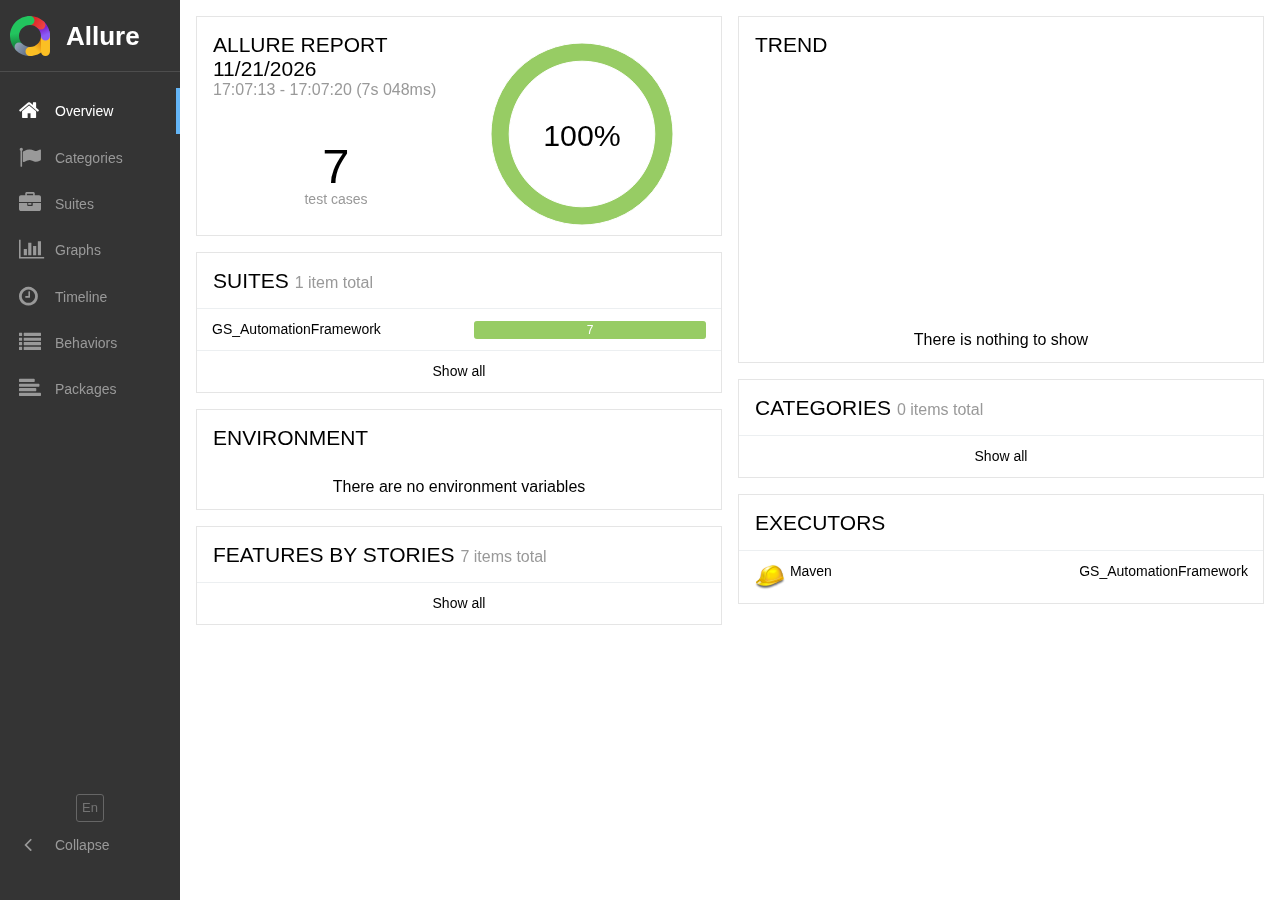
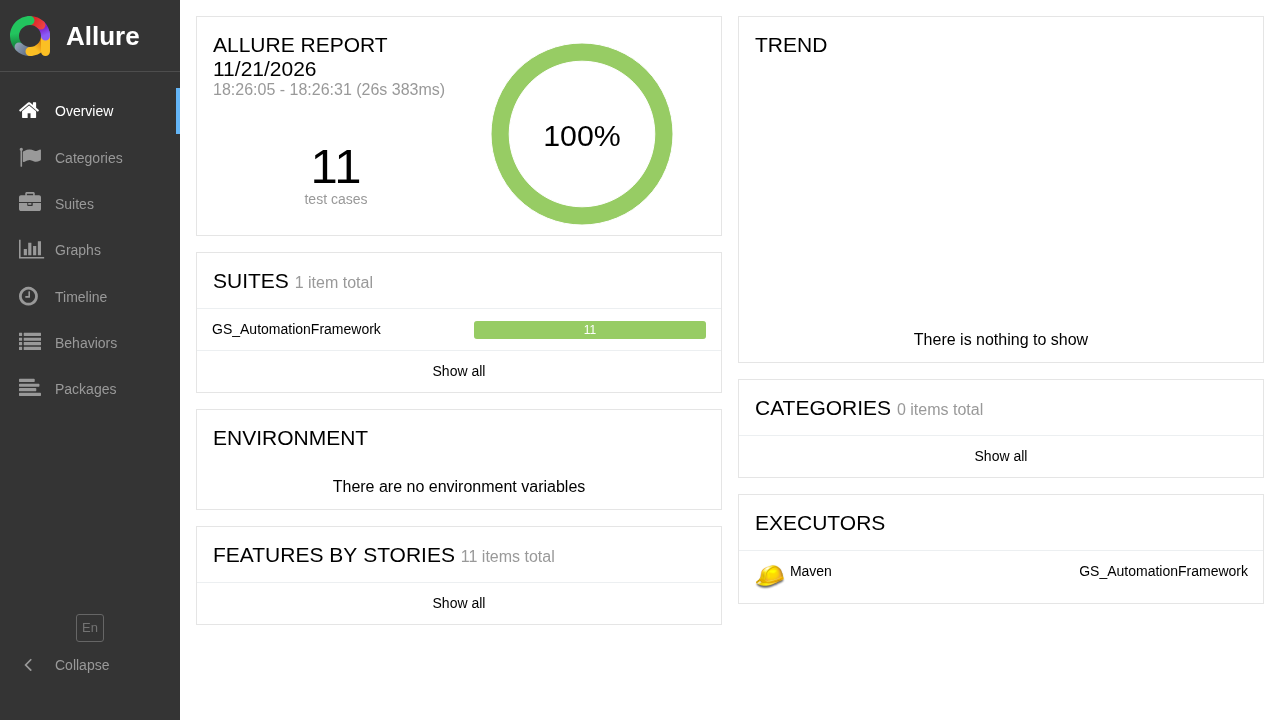
Rebuild the README as a visual showcase of the framework

diff --git a/README.md b/README.md
@@ -6,6 +6,33 @@ Drop in your store's URL, fill the page locators, and the common flows every
 e-commerce site needs are ready to run: login, product search, add to cart,
 cart management and checkout.
 
+[![CI](https://github.com/Omartarek876/EcoQA/actions/workflows/CI.yml/badge.svg)](https://github.com/Omartarek876/EcoQA/actions/workflows/CI.yml)
+[![Allure report](https://img.shields.io/badge/Allure_report-live_on_GitHub_Pages-97ca00)](https://omartarek876.github.io/EcoQA/)
+![Java 21](https://img.shields.io/badge/Java-21-orange)
+![Selenium](https://img.shields.io/badge/Selenium-4.52-43B02A?logo=selenium&logoColor=white)
+![TestNG](https://img.shields.io/badge/TestNG-7.11-FF7300)
+![Maven](https://img.shields.io/badge/Maven-C71A36?logo=apachemaven&logoColor=white)
+
+![Tour of the live Allure report published from the latest CI run](docs/gifs/report-tour.gif)
+
+*Browsing the live report this framework publishes after every CI run:
+overview, suites, a passing test with its Allure steps, graphs and timeline.*
+
+## What happens on every push
+
+![Execution flow: push, CI, TestNG parallel threads with their own browsers, Allure report, live GitHub Pages link](docs/diagrams/execution-flow.svg)
+
+1. A push to `main` (or a pull request) triggers `.github/workflows/CI.yml`.
+2. The workflow sets up Java 21 and runs `mvn clean test`.
+3. TestNG runs the test classes in parallel (see
+   [Parallel execution](#parallel-execution)): every class gets its own thread
+   and its own browser session through the thread-local `DriverFactory`.
+4. The Allure integration records every step, with a screenshot attached when
+   a test fails.
+5. The report is generated as a single HTML file and published to GitHub Pages,
+   so the latest results are always one link away:
+   <https://omartarek876.github.io/EcoQA/>.
+
 ## Tech stack
 
 - Java 21, Maven
@@ -13,6 +40,53 @@ cart management and checkout.
 - TestNG
 - Allure (allure-testng 3.0) for HTML reports
 - GitHub Actions CI
+
+## Framework structure
+
+```
+EcoQA/
+├── .github/workflows/CI.yml    plug-and-play pipeline: test, report, publish
+├── src/main/java/
+│   ├── pages/                  ready e-commerce page flows, locators to fill
+│   └── utils/                  DriverFactory, element actions, waits,
+│                               listeners, retry, Allure helpers
+├── src/main/resources/
+│   ├── environment.properties  baseUrl of the store under test
+│   └── execution.properties    browser, headless, waits, retry attempts
+├── src/test/java/
+│   ├── smoke/                  framework self-tests, run in parallel in CI
+│   └── templates/              copy-ready test class template
+├── src/test/resources/
+│   └── <Page>Page_Data/        messages + EN/AR data files per page
+└── docs/                       screenshots, GIFs and diagrams for this README
+```
+
+How the layers connect:
+
+```mermaid
+flowchart LR
+    subgraph tests["Test layer - src/test"]
+        T["Smoke tests<br/>and your tests"]
+        D["Per-page JSON data<br/>(messages, EN, AR)"]
+    end
+    subgraph framework["Framework layer - src/main"]
+        P["Page flows<br/>pages/"]
+        U["Utilities<br/>utils/"]
+        F["DriverFactory<br/>ThreadLocal WebDriver"]
+    end
+    T --> P
+    T --> D
+    P --> U
+    D --> U
+    U --> F
+    F --> W["Selenium WebDriver<br/>Chrome / Firefox / Edge"]
+    U --> R["Allure report<br/>local + GitHub Pages"]
+```
+
+The tests never touch WebDriver directly: they call the page flows, the page
+flows call the utilities, and the utilities own the driver, the waits, the
+assertions and the reporting. Data lives next to the tests as JSON, never
+hardcoded.
 
 ## What's inside
 
@@ -188,6 +262,8 @@ report when results exist, uploads the test results and report as build artifact
 project-specific values are hardcoded, so the workflow works unchanged for any
 store that adopts this framework.
 
+![Green CI run: tests, report generation and Pages publishing](docs/screenshots/ci-green.png)
+
 ## Allure reporting
 
 Reports are generated automatically after the suite runs. No reporting code is
@@ -222,4 +298,10 @@ What the report looks like for this framework's smoke suite:
 
 ![Allure report overview](docs/screenshots/allure-overview.png)
 
-![Allure report suites view](docs/screenshots/allure-suites.png)
+A passing test with its recorded steps, exactly as the page flows report them:
+
+![A passing test with its Allure steps](docs/screenshots/allure-test-steps.png)
+
+Status, severity and duration graphs:
+
+![Allure graphs](docs/screenshots/allure-graphs.png)
